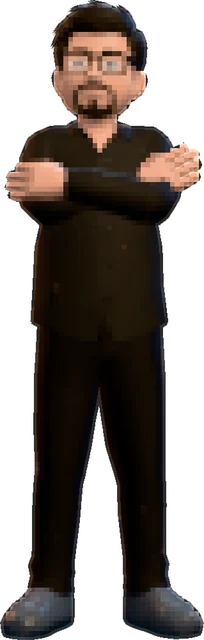
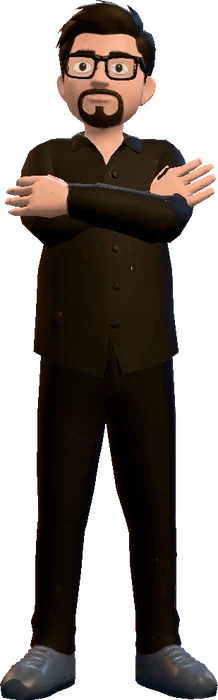
style: disable dancer pixelation temporarily
Add an ENABLE_PIXELATION switch, currently off, so the 3D dancer renders cleanly. Refresh the posters with the unpixelated render.

diff --git a/src/components/dancer/dancerScene.js b/src/components/dancer/dancerScene.js
@@ -11,6 +11,8 @@ const MODEL_URL = "/static/models/meshy-lore.glb";
 const DANCES_URL = "/static/data/winston-dances.json";
 const DEG = Math.PI / 180;
 const TRANSITION_SECONDS = 0.45;
+// Temporary switch: set to true to restore the pixelation post-process.
+const ENABLE_PIXELATION = false;
 
 /** Contract rig used by Winston's Paradigm -> actual Meshy/Mixamo bones. */
 const BONE_MAP = {
@@ -394,14 +396,19 @@ export async function createDancer({
     const composer = new EffectComposer(renderer);
     const renderPass = new RenderPass(scene, camera);
 
-    const pixelatePass = new ShaderPass(PixelateShader);
-    pixelatePass.uniforms.uPixelSize.value = 3;
-    pixelatePass.uniforms.uVignette.value = 0.12;
+    const pixelatePass = ENABLE_PIXELATION
+        ? new ShaderPass(PixelateShader)
+        : null;
+
+    if (pixelatePass) {
+        pixelatePass.uniforms.uPixelSize.value = 3;
+        pixelatePass.uniforms.uVignette.value = 0.12;
+    }
 
     const outputPass = new OutputPass();
 
     composer.addPass(renderPass);
-    composer.addPass(pixelatePass);
+    if (pixelatePass) composer.addPass(pixelatePass);
     composer.addPass(outputPass);
 
     const startSequence =
@@ -504,18 +511,20 @@ export async function createDancer({
         camera.updateProjectionMatrix();
         camera.updateMatrixWorld(true);
 
-        pixelatePass.uniforms.uResolution.value = new THREE.Vector2(
-            width * ratio,
-            height * ratio
-        );
-        pixelatePass.uniforms.uPixelRatio.value = ratio;
-        // Keep the blocks visually similar on every placement: taller canvas
-        // means a slightly larger cell, so the face stays hidden while the
-        // body keeps a readable silhouette.
-        pixelatePass.uniforms.uPixelSize.value = Math.max(
-            2.5,
-            height * 0.006
-        );
+        if (pixelatePass) {
+            pixelatePass.uniforms.uResolution.value = new THREE.Vector2(
+                width * ratio,
+                height * ratio
+            );
+            pixelatePass.uniforms.uPixelRatio.value = ratio;
+            // Keep the blocks visually similar on every placement: taller
+            // canvas means a slightly larger cell, so the face stays hidden
+            // while the body keeps a readable silhouette.
+            pixelatePass.uniforms.uPixelSize.value = Math.max(
+                2.5,
+                height * 0.006
+            );
+        }
     }
 
     function advance(dt) {
@@ -848,7 +857,7 @@ export async function createDancer({
         dancer.remove(model);
 
         renderPass.dispose?.();
-        pixelatePass.dispose?.();
+        pixelatePass?.dispose?.();
         outputPass.dispose?.();
         composer.dispose();
 
